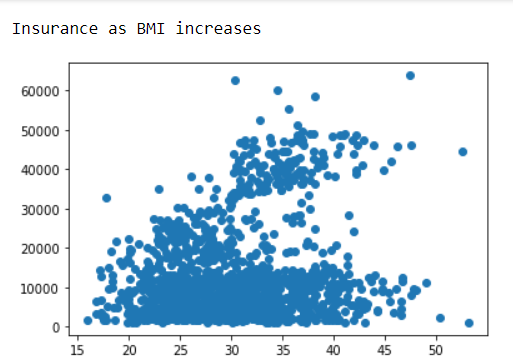
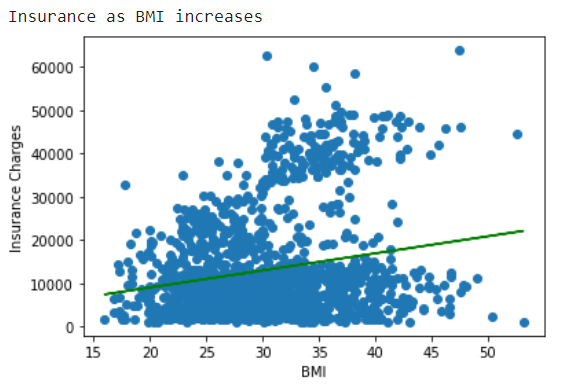
photos changed

diff --git a/LineReg.html b/LineReg.html
@@ -25,7 +25,20 @@
       between two variables.
     </p>
       <h3>Scatter Plots are </h3>
+      <p>
+        Scatter Plots are graphs that are designed to illustrate the relationship between
+        the independent and dependent variables. The independent and dependent variables are
+         plotted on the x and y axis to identify a linear relationship when analyzing simple regression.
+         <br>
+         <br>
+         In this project, the x-axis contains the indepedent variables such as, age
+         
+      </p>
       <h3>Line of Best Fit</h3>
+      <p>
+      Line of best fit is the line through a scatter plot that best
+       visualizes the relationship between those two points.
+     </p>
       <h3>Standard Error</h3>
       <h3>R Sqaured</h3>
   </body>
